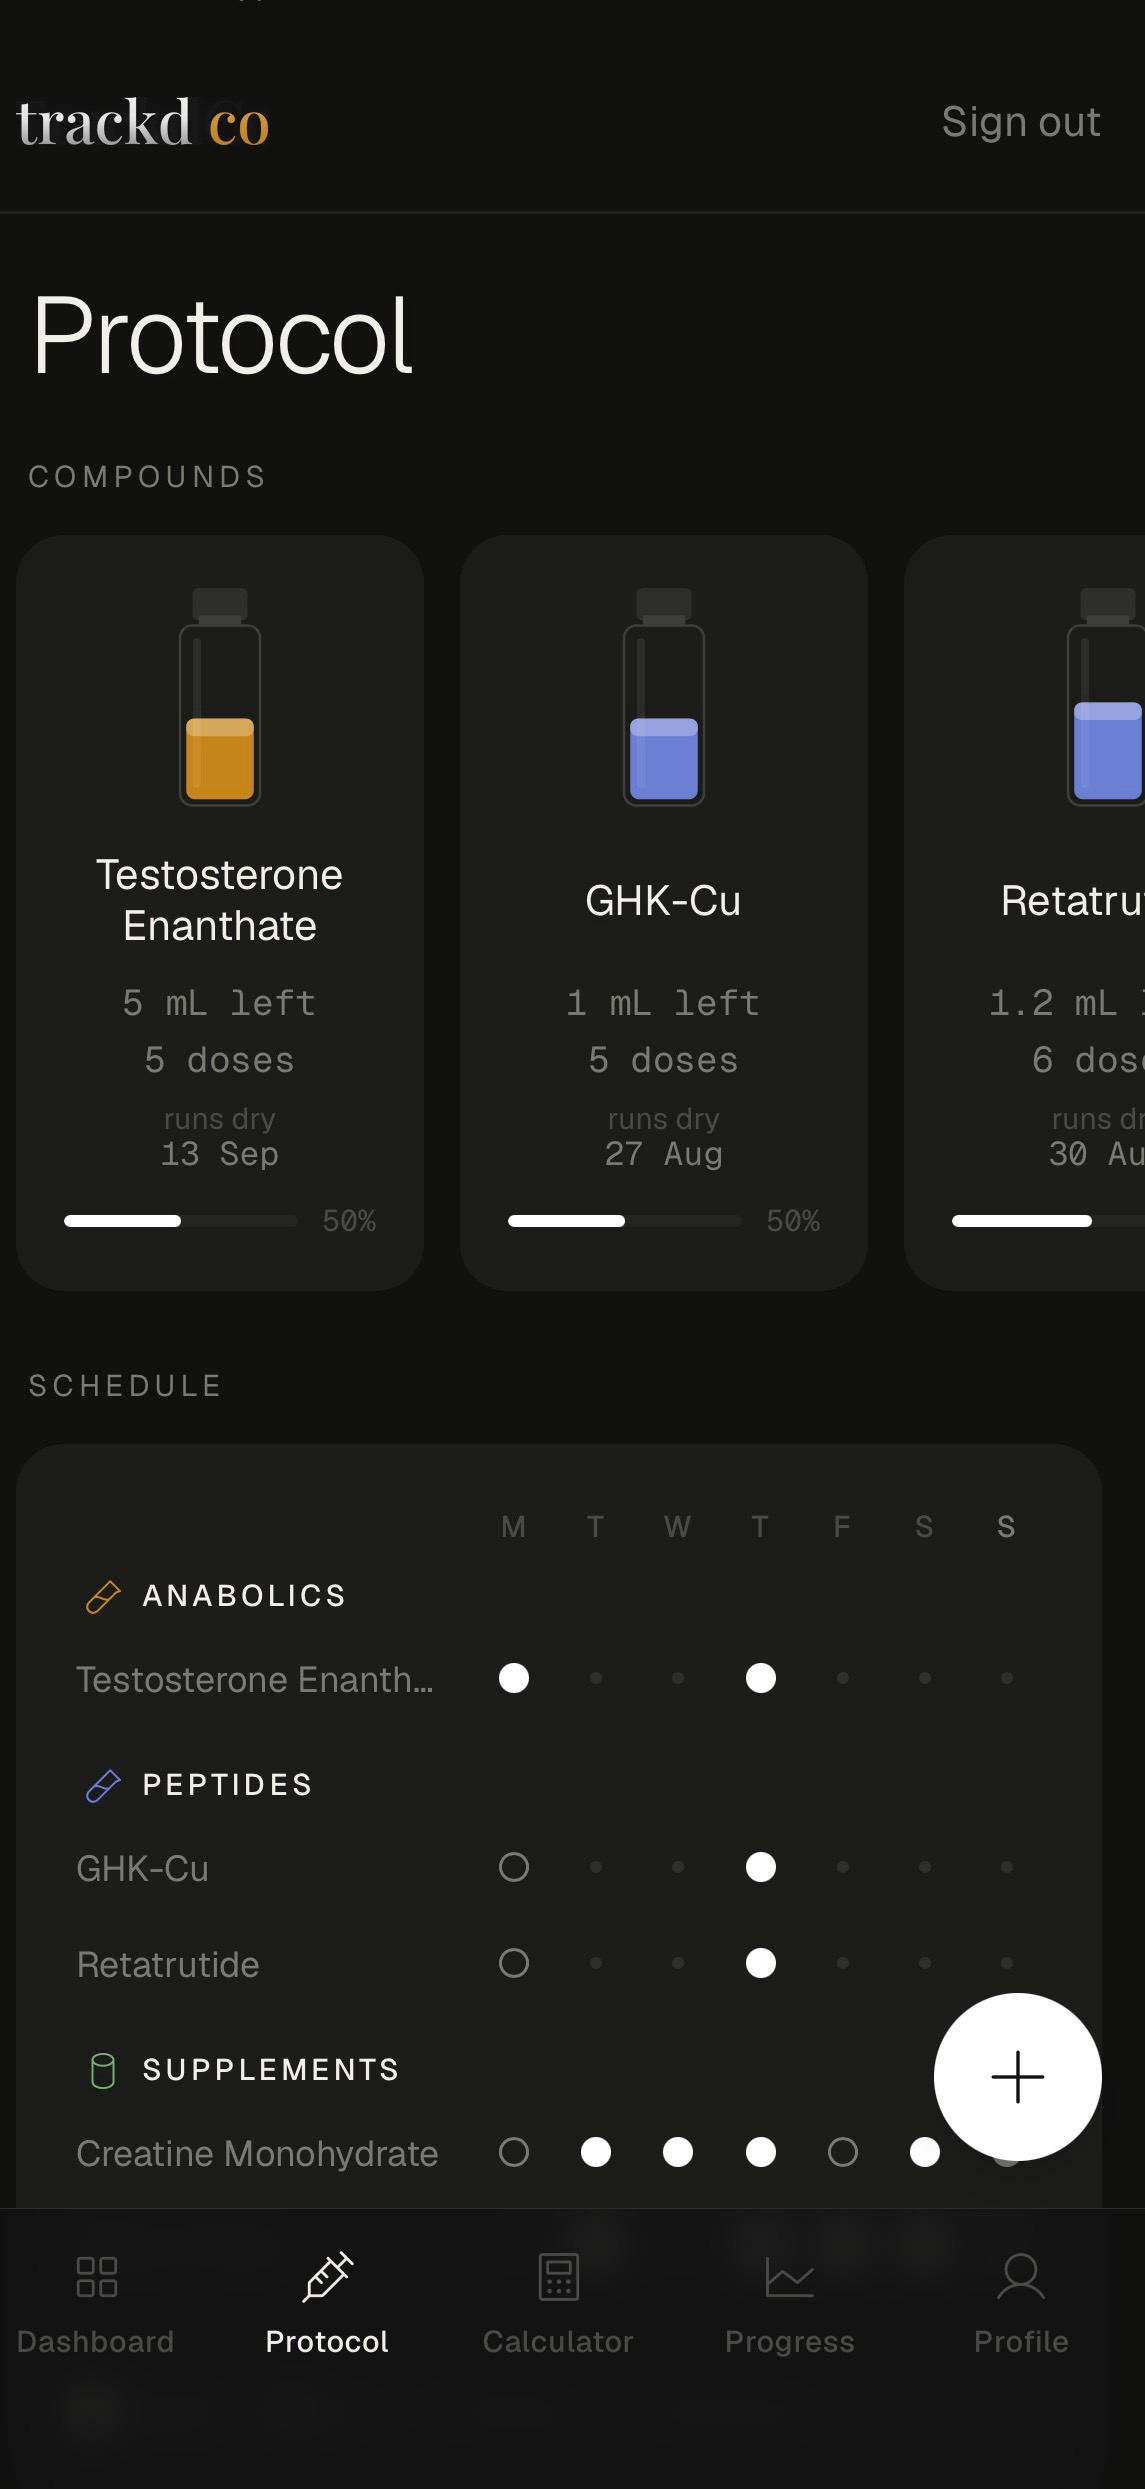
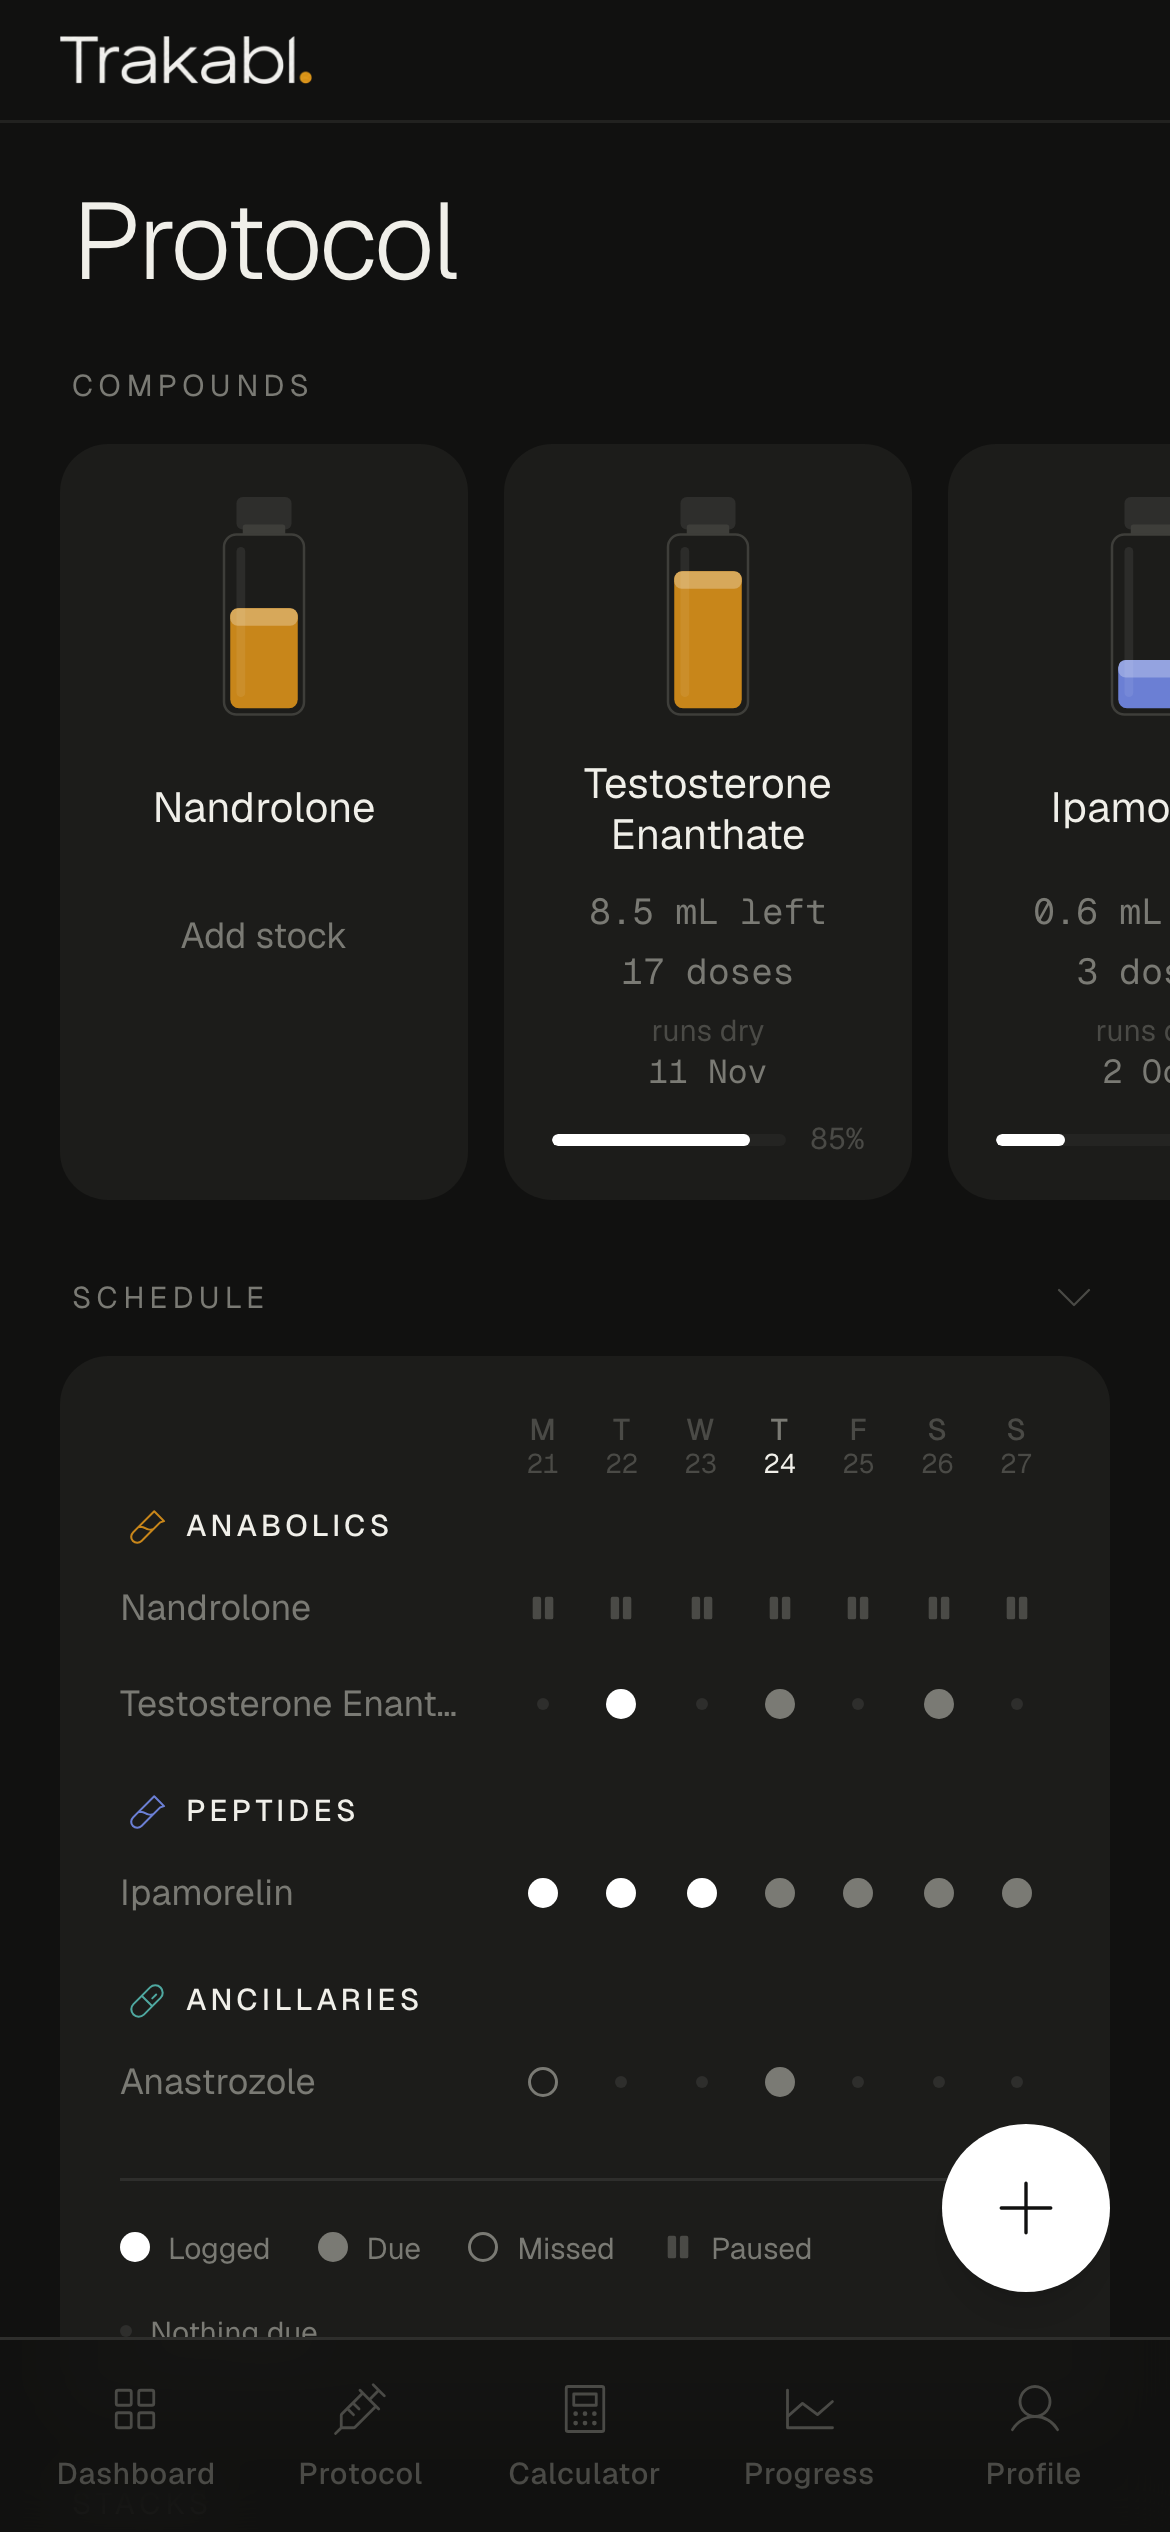
All four carousel slides, recaptured under the new name
The four onboarding slides still showed the retired serif "trackd co". These are
captured from the preview harnesses at a 390x844 viewport with deviceScaleFactor
3, which IS 1170x2532 natively — the size app-carousel.tsx declares — so nothing
is resampled and the wordmark stays sharp. The retired files were 1145x2489 and
688x1504; none of them matched.

Three defects that the checks alone would have shipped, all caught by opening
the files:

  · The calculator slide was the DISCLAIMER. "A calculator, not advice" opens as
    a modal over the whole screen on first visit, and an assertion looking for
    "not medical advice" sailed straight past the wording it actually uses. The
    check now fails on ANY open dialog rather than on a phrase.
  · Filling the fields scrolled them into view, which pushed the wordmark header
    and the syringe off the top of the frame. The wordmark was still in the DOM,
    so a presence check passed while the slide had no app name on it. The check
    now requires the mark to be inside the viewport, not merely to exist.
  · The progress slide rendered its photo card as a grey SVG placeholder, because
    the preview mock has no image. It now reuses the photo from the retired
    slide — an image that already shipped, not a new asset.

`/preview/recon` gains the wordmark header and bottom nav the other three
preview routes already had. Its doc comment claimed "the same page scaffold" and
[…]

diff --git a/app/preview/recon/page.tsx b/app/preview/recon/page.tsx
@@ -1,5 +1,7 @@
+import Image from "next/image";
 import { notFound } from "next/navigation";
 
+import { BottomNav } from "@/components/navigation/bottom-nav";
 import { PageScrollTitle } from "@/components/layout/PageScrollTitle";
 import { ReconCalculator } from "@/components/calculator/ReconCalculator";
 
@@ -8,24 +10,53 @@ import { ReconCalculator } from "@/components/calculator/ReconCalculator";
  * the real `/calculator` nav tab mounts, on the same page scaffold, minus the
  * auth gate (which is the only reason this harness exists). 404 in production.
  * Try powder 5 mg, BAC 2 mL, dose 250 mcg to see the working.
+ *
+ * ⚠ THE SHELL IS PART OF THE SCAFFOLD, not decoration. This route used to render
+ * the calculator bare — no wordmark header, no bottom nav — while `/preview/home`,
+ * `/preview/progress` and `/preview/protocol` all mirror the (app) shell. The doc
+ * comment above claimed "the same page scaffold" and was the only one of the four
+ * where that was untrue, which is exactly the kind of gap you only notice when a
+ * screenshot of this screen has to sit beside screenshots of the other three.
  */
 export default function PreviewReconPage() {
   if (process.env.NODE_ENV === "production") notFound();
 
   return (
-    <div
-      // Same markers the real `/calculator` page carries, so the desktop
-      // two-column layout (form left, reading right) is visible here too. The
-      // doc comment above claims this is the same scaffold; these keep it true.
-      data-screen="calculator"
-      className="mx-auto w-full max-w-md space-y-5 px-5 pt-4 pb-5"
-    >
-      <span className="rounded-full bg-bg-surface-raised px-2.5 py-1 text-[11px] font-medium tracking-wider text-text-muted uppercase">
-        Preview · /calculator
-      </span>
-      <PageScrollTitle title="Calculator" />
+    <div className="flex min-h-dvh flex-col pb-[calc(4rem+env(safe-area-inset-bottom)+4.5rem)]">
+      <header
+        className="flex items-center justify-between border-b border-border/60 px-5"
+        style={{
+          paddingTop: "max(0.75rem, env(safe-area-inset-top))",
+          paddingBottom: "0.75rem",
+        }}
+      >
+        <Image
+          src="/trackd-wordmark.png"
+          alt="Trakabl"
+          width={1044}
+          height={200}
+          className="h-4 w-auto"
+        />
+        <span className="rounded-full bg-bg-surface-raised px-2.5 py-1 text-[11px] font-medium uppercase tracking-wider text-text-muted">
+          Preview · /calculator
+        </span>
+      </header>
 
-      <ReconCalculator />
+      <main className="flex-1">
+        <div
+          // Same markers the real `/calculator` page carries, so the desktop
+          // two-column layout (form left, reading right) is visible here too. The
+          // doc comment above claims this is the same scaffold; these keep it true.
+          data-screen="calculator"
+          className="mx-auto w-full max-w-md space-y-5 px-5 pt-4 pb-5"
+        >
+          <PageScrollTitle title="Calculator" />
+
+          <ReconCalculator />
+        </div>
+      </main>
+
+      <BottomNav />
     </div>
   );
 }
